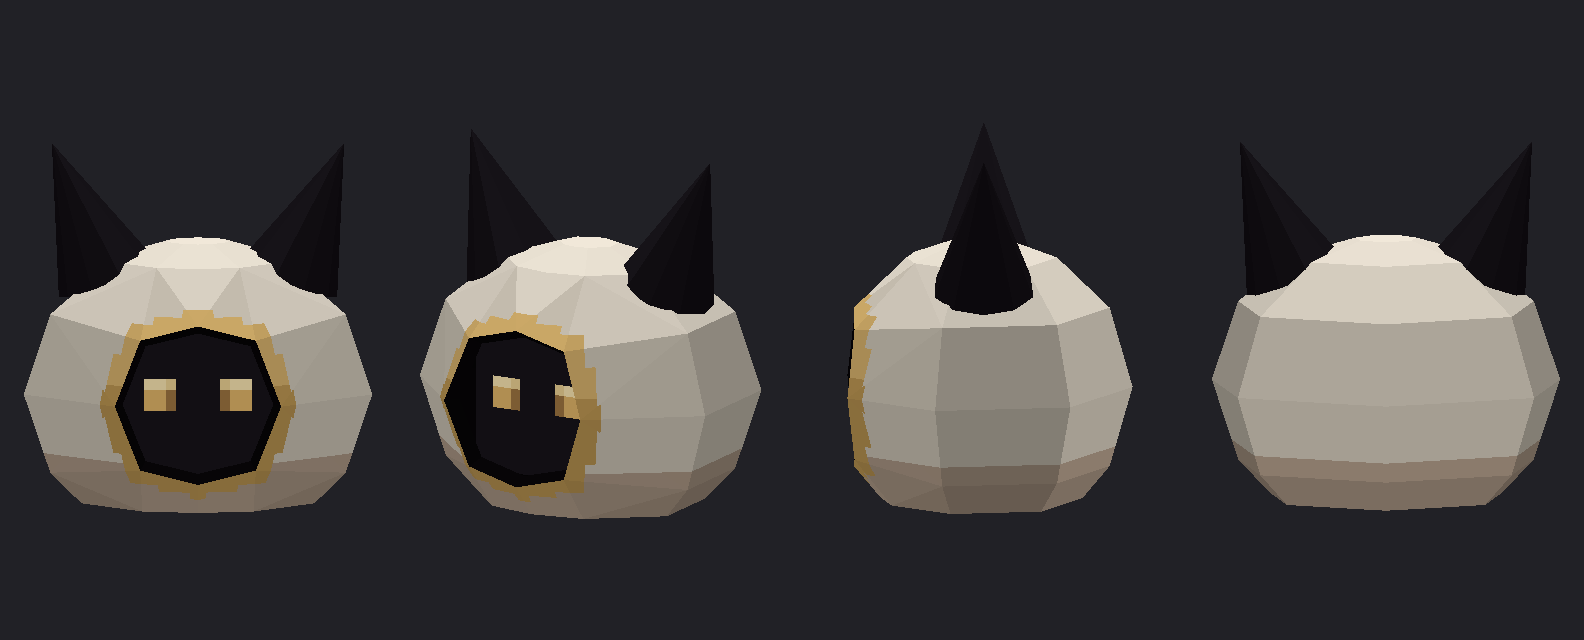
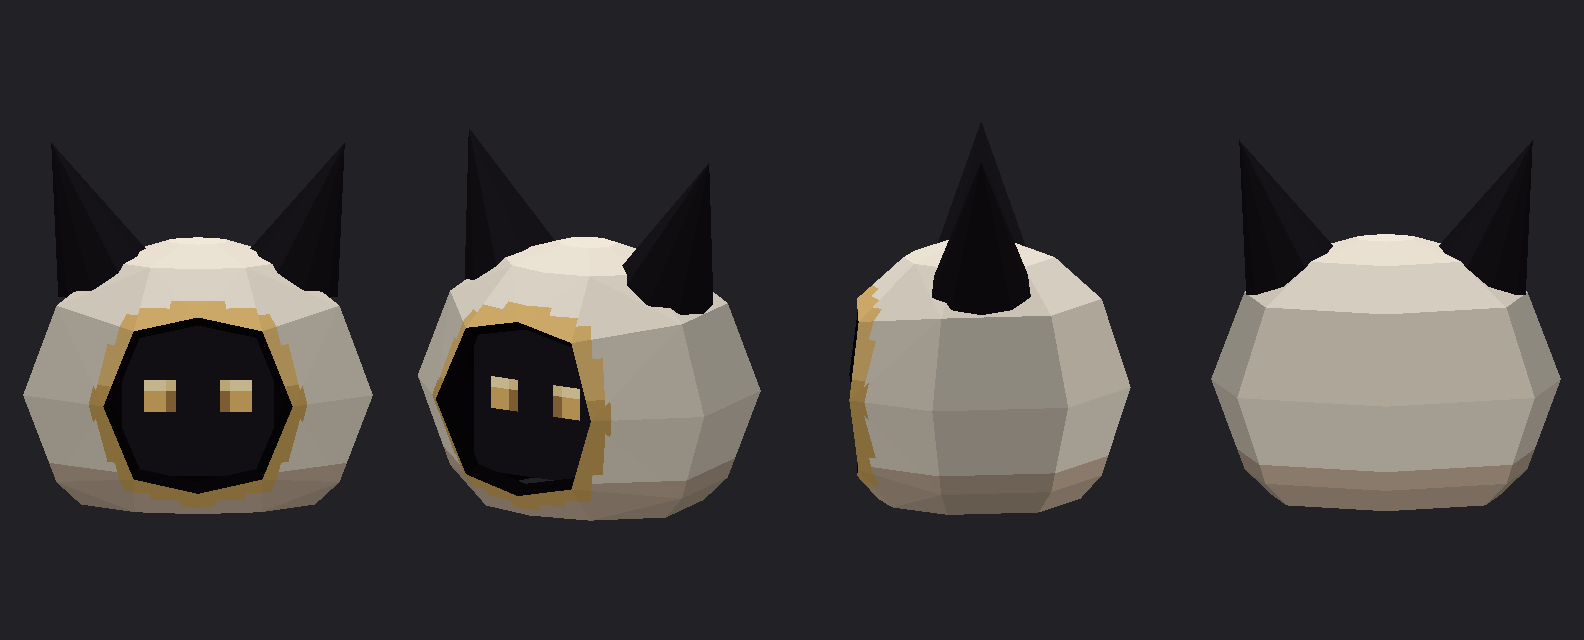
Capucha de Pibble: agujero de la cara un poco mas abierto
El agujero pasa de ~7.7 x 7.4 px a ~8.8 x 8.2 px (HA/HB como constantes).

Claude-Session: https://claude.ai/code/session_01JLSuk79QgXUucDMTiBYitK

diff --git a/taller/personajes/pibble_capucha.py b/taller/personajes/pibble_capucha.py
@@ -21,12 +21,13 @@ CX, CY, CZ = 0.0, 22.5, 0.0         # centro del ovalo
 RX, RY, RZ = 8.5, 7.0, 7.0          # semiejes: ancho, alto, fondo
 GROSOR = 0.8                        # grosor de la tela de la capucha
 # columnas (grados desde el frente hacia +X) y filas (grados de altura): mas juntas cerca de la cara
-ALFAS = (0, 27, 72, 126, 180, 234, 288, 333)
-BETAS = (-48, -32, 0, 32, 60, 80)   # abajo queda abierta (ahi se conecta el cuerpo)
+HA, HB = 31, 36                     # medio ancho y medio alto del agujero de la cara (en grados del ovalo)
+ALFAS = (0, HA, 72, 126, 180, 234, 288, 360 - HA)
+BETAS = (-48, -HB, 0, HB, 60, 80)   # abajo queda abierta (ahi se conecta el cuerpo)
 # borde del agujero de la cara: 8 vertices del ovalo (columna, fila)
-BORDE = ((333, -32), (0, -32), (27, -32), (27, 0), (27, 32), (0, 32), (333, 32), (333, 0))
-ESQUINAS = {(333, -32), (27, -32), (27, 32), (333, 32)}
-HUECO = {(a, b) for a in (333, 0) for b in (-32, 0)}       # los 4 paneles del frente que se sacan
+BORDE = ((360 - HA, -HB), (0, -HB), (HA, -HB), (HA, 0), (HA, HB), (0, HB), (360 - HA, HB), (360 - HA, 0))
+ESQUINAS = {(360 - HA, -HB), (HA, -HB), (HA, HB), (360 - HA, HB)}
+HUECO = {(a, b) for a in (360 - HA, 0) for b in (-HB, 0)}  # los 4 paneles del frente que se sacan
 
 CABEZA = 7.0                        # lado del cubo de la cabeza
 CABEZA_Z = -0.7                     # centro del cubo (un poco hacia adelante, para que se vea por el agujero)
@@ -40,7 +41,7 @@ def punto(a, b, enc=0.0):
     ar, br = math.radians(a), math.radians(b)
     p = (CX + rx * math.cos(br) * math.sin(ar), CY + ry * math.sin(br), CZ - rz * math.cos(br) * math.cos(ar))
     if (a, b) in ESQUINAS:                     # esquinas del agujero: se meten hacia el centro -> agujero ovalado
-        x, y = CX + (p[0] - CX) * 0.82, CY + (p[1] - CY) * 0.82
+        x, y = CX + (p[0] - CX) * 0.84, CY + (p[1] - CY) * 0.84
         k = max(0.0, 1 - ((x - CX) / rx) ** 2 - ((y - CY) / ry) ** 2)
         p = (x, y, CZ - rz * math.sqrt(k))     # sigue sobre la superficie del ovalo
     return p
